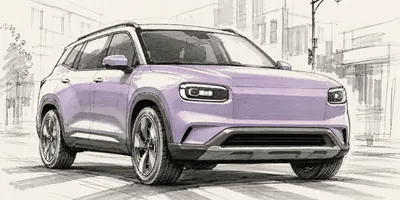
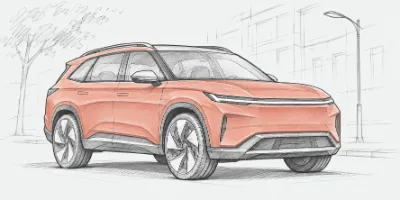
Wayfinder: the white-label line says it was by design; a red car
- The lede's last sentence now reads "Having architected and built it end
  to end on my own, I kept it white-label, so it could be rebuilt for any
  business." The old "from a reusable white-label foundation" read as a
  starting point rather than a deliberate pattern. llms.txt says the same.
- The chat's vehicle card sketch is redrawn in a red-pen wash to suit the
  Drawing office look (400 and 800px webp); the alt text says red, not
  lilac.

diff --git a/src/sections/wayfinder/WayfinderSection.tsx b/src/sections/wayfinder/WayfinderSection.tsx
@@ -17,7 +17,7 @@ export function WayfinderSection() {
         id="wayfinder-title"
         numeral="1"
         title="Wayfinder, an AI guide for a global automotive brand"
-        lede="A chat assistant live in production, guiding buyers on electric and hybrid options across the range. Test-drive booking and finance were proven in the prototype and demoed live. I built all of it on my own, from a reusable white-label foundation."
+        lede="A chat assistant live in production, guiding buyers on electric and hybrid options across the range. Test-drive booking and finance were proven in the prototype and demoed live. Having architected and built it end to end on my own, I kept it white-label, so it could be rebuilt for any business."
         chips={["React", "Node", "Multi-agent", "MCP", "Terraform"]}
       />
       <Wayfinder />

diff --git a/src/features/wayfinder/ChatMock.test.tsx b/src/features/wayfinder/ChatMock.test.tsx
@@ -39,7 +39,7 @@ describe("ChatMock", () => {
       />,
     );
     const sketch = screen.getByRole("img", {
-      name: "Sketch of a lilac family SUV on a city street",
+      name: "Sketch of a red family SUV on a city street",
     });
     expect(sketch).toHaveAttribute("loading", "lazy");
     expect(sketch).toHaveAttribute("width", "400");

diff --git a/src/features/wayfinder/VehicleImage.tsx b/src/features/wayfinder/VehicleImage.tsx
@@ -14,7 +14,7 @@ export const VEHICLE = {
   sizes: "min(384px, calc(100vw - 106px))",
   width: 400,
   height: 200,
-  alt: "Sketch of a lilac family SUV on a city street",
+  alt: "Sketch of a red family SUV on a city street",
 } as const;
 
 export function VehicleImage() {
